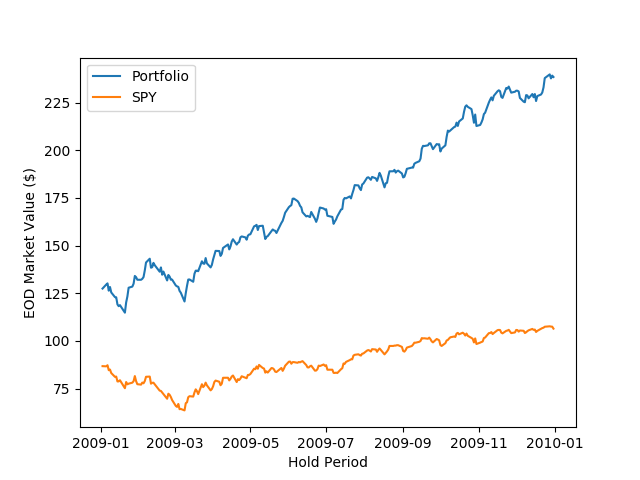
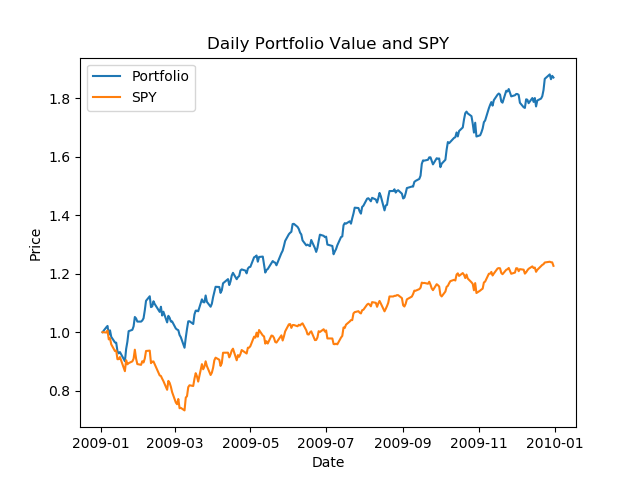
Cleans up optimization plot

diff --git a/optimize_something/optimization.py b/optimize_something/optimization.py
@@ -52,15 +52,20 @@ def optimize_portfolio(sd=dt.datetime(2008, 1, 1), ed=dt.datetime(2009, 1, 1),
 
     # Compare daily portfolio value with SPY using a normalized plot
     if gen_plot:
-        # Get daily portfolio value
+        # indexed daily portfolio values
         port_val = pd.DataFrame(np.matmul(prices.values, allocs))
+        port_val = port_val / port_val.iloc[0]
         port_val = port_val.set_index(prices.index)
 
-        # add code to plot here
+        # indexed daily SPY values
+        idx_SPY = prices_SPY / prices_SPY.iloc[0]
+
+        # plot indexed portfolio vs SPY
         plt.plot(port_val, label='Portfolio')
-        plt.plot(prices_SPY, label='SPY')
-        plt.xlabel('Hold Period')
-        plt.ylabel('EOD Market Value ($)')
+        plt.plot(idx_SPY, label='SPY')
+        plt.title('Daily Portfolio Value and SPY')
+        plt.xlabel('Date')
+        plt.ylabel('Price')
 
         plt.legend()
         plt.savefig('fig1.png')
